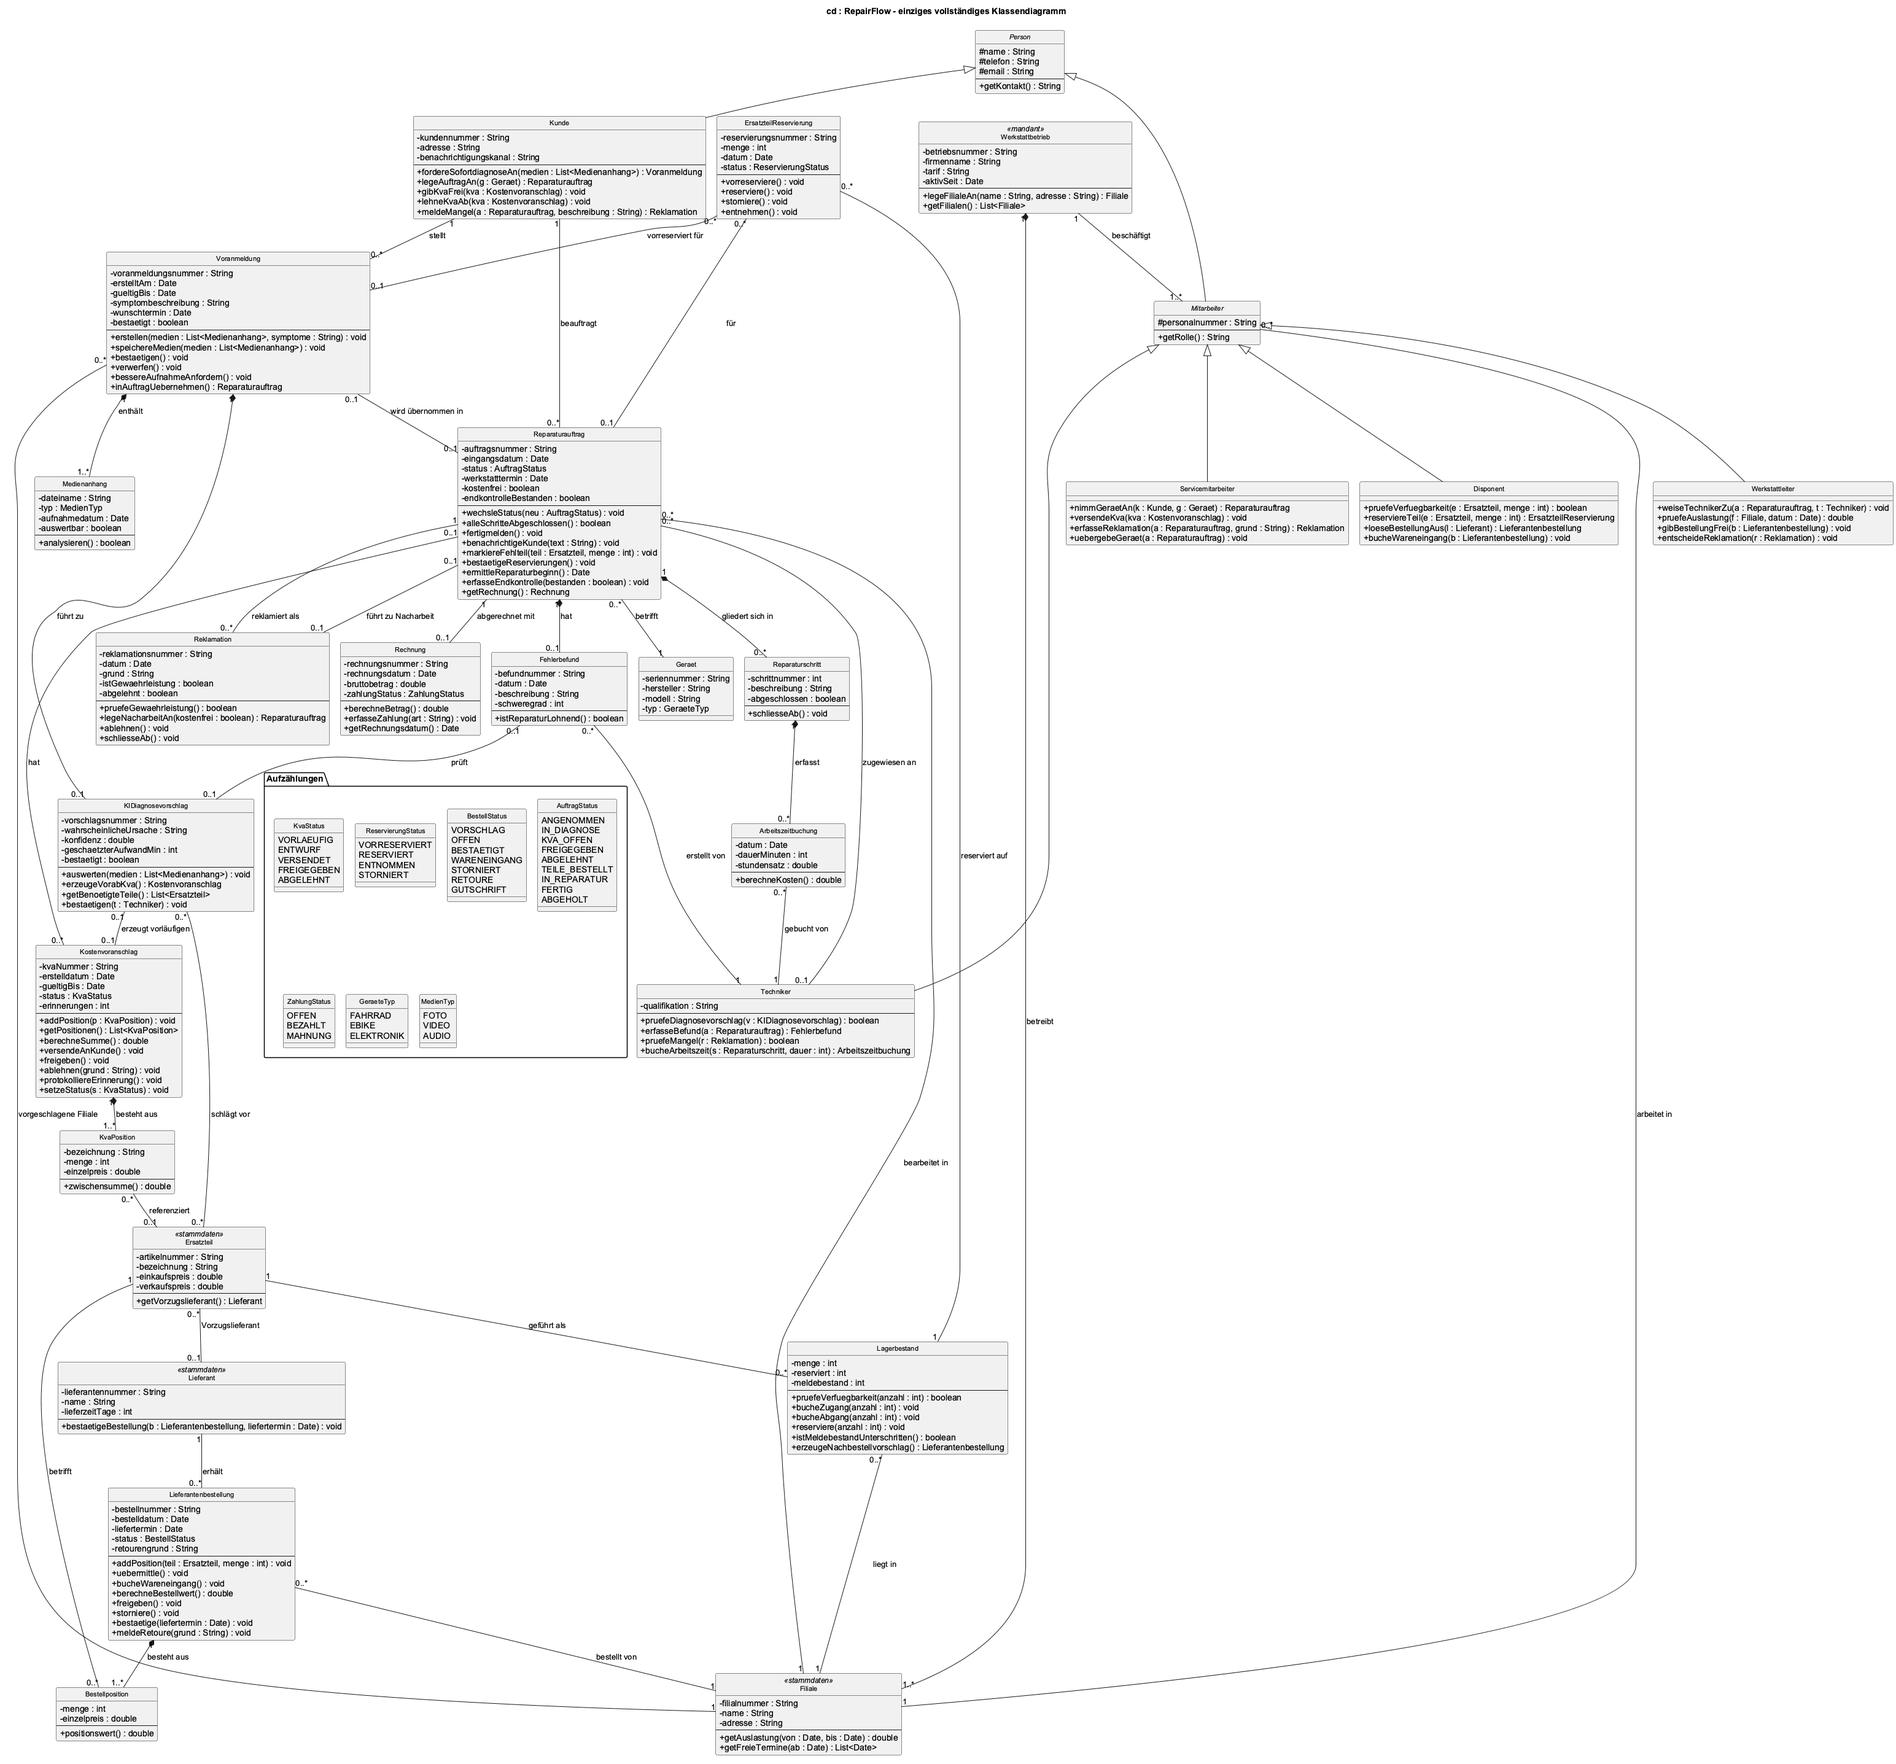
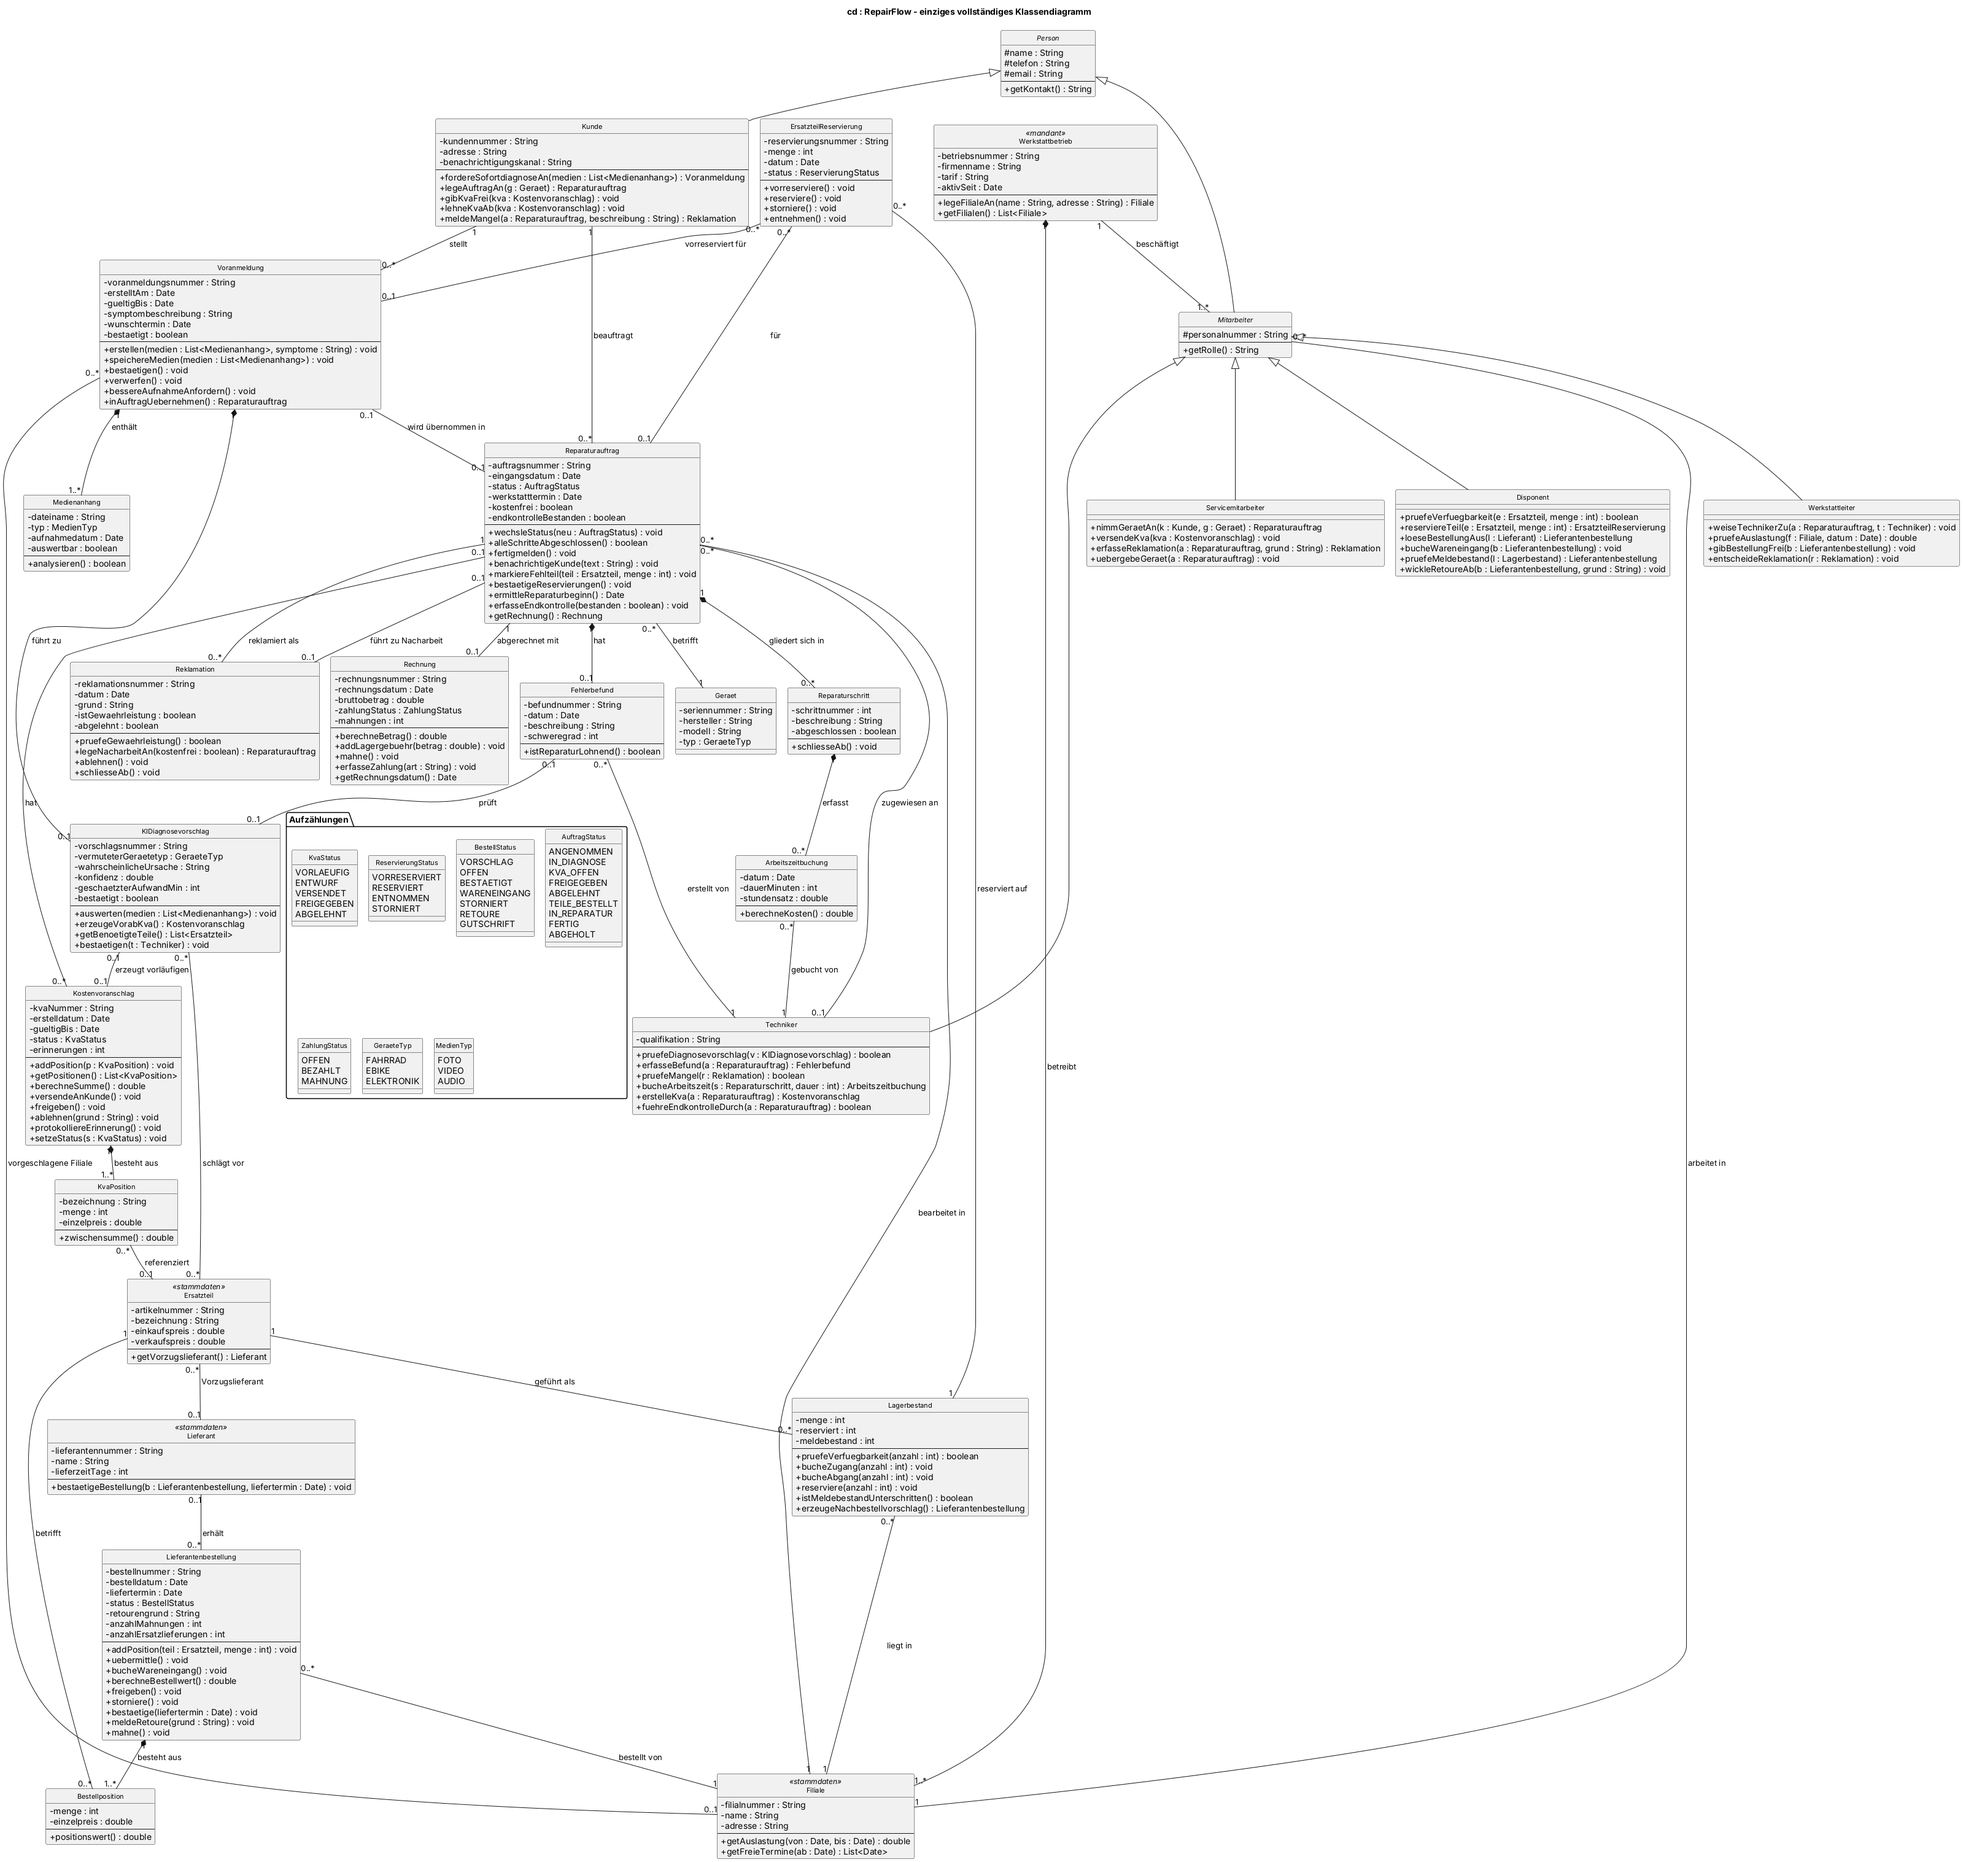
[T05 2026-10-16] fix: class diagram - operation per role, dunning, device type (E-29)
Vier Rollen aus Tabelle 7 hatten keine Operation in ihrer Mitarbeiterklasse
(Kalkulator, Endkontrolleur, Bestandsplaner, Retourenbearbeiter). Mahnungen
und Ersatzlieferungen aus P06 (E-27) sowie Mahnung und Lagergebuehr aus P08
im Modell abgebildet, Geraetetyp im KI-Vorschlag (Doku 2.5), zwei
Multiplizitaeten korrigiert. klassen.puml/.png, modell.xmi, Aenderungsbild,
E-29 im Entscheidungslog, TODO A.

Claude-Session: https://claude.ai/code/session_01H2bGsFaySUqsEjJ1PXuxUw

diff --git a/TODO.md b/TODO.md
@@ -14,6 +14,7 @@ Lehre-VPN starten, im Teamwork Client vor jeder Sitzung **Update**, nach jedem f
 
 - [ ] **Use-Case-Diagramm nach E-24 neu aufbauen.** Das importierte Modell hat noch die alten acht Akteure. Erst Commit, dann im Model Explorer nur das Paket „Anwendungsfallmodell“ löschen, `2_uml/modell-usecase.xmi` importieren (nicht die ganze `modell.xmi`, sonst Klassen doppelt), neues Diagramm „ud : RepairFlow“ anlegen und nach `usecase.png` anordnen: Rollen links, Use Cases in den vier Bereichen, KI-Diagnosedienst rechts neben UC01. Den Kunden dreimal aus dem Model Explorer ziehen (weitere Ansichten desselben Elements). UC08 bekommt keinen Akteur, der Lieferant ist kein Akteur (Black Box, E-24). Muss fertig sein, bevor Sequenzdiagramme angelegt werden, weil die als Unterdiagramme an den Use Cases hängen.
 - [ ] **Klassendiagramm „cd : RepairFlow“ fertigstellen.** Alle 27 Klassen und 7 Aufzählungen aus dem Paket „Klassenmodell“ auf die Fläche (Paket „Datentypen“ nicht), nach Zonen anordnen (Organisation links, Filiale oben Mitte, Sofortdiagnose links unten, Auftrag Mitte, Disposition rechts, Aufzählungen unten), Stereotypen «mandant» (Werkstattbetrieb) und «stammdaten» (Filiale, Lieferant, Ersatzteil) setzen, prüfen: Person und Mitarbeiter abstrakt (kursiv), 8 Kompositionen mit gefüllter Raute, Multiplizitäten an allen 36 Assoziationen. Keine Klasse umbenennen, keine Operation löschen.
+- [ ] **Änderungen E-29 im Klassendiagramm nachtragen** (von Hand in VP, kein Neuimport): Bild `2_uml/entwurf-plantuml/klassen-aenderungen-2026-10-16.png`, rot = neu. Techniker: `erstelleKva(a : Reparaturauftrag) : Kostenvoranschlag`, `fuehreEndkontrolleDurch(a : Reparaturauftrag) : boolean`. Disponent: `pruefeMeldebestand(l : Lagerbestand) : Lieferantenbestellung`, `wickleRetoureAb(b : Lieferantenbestellung, grund : String) : void`. Lieferantenbestellung: Attribute `anzahlMahnungen : int`, `anzahlErsatzlieferungen : int`, Operation `mahne() : void`. Rechnung: Attribut `mahnungen : int`, Operationen `addLagergebuehr(betrag : double) : void`, `mahne() : void`. KIDiagnosevorschlag: Attribut `vermuteterGeraetetyp : GeraeteTyp`. Multiplizität Voranmeldung–Filiale auf Filialseite `0..1`, Lieferant–Lieferantenbestellung auf Lieferantenseite `0..1`. Attribute/Operationen in VP: Klasse rechtsklicken → Add → Attribute/Operation, Typ im Dropdown wählen.
 - [ ] **Sechs Sequenzdiagramme als Unterdiagramme anlegen** (Use Case rechtsklicken → Sub Diagrams → New Diagram → Sequence Diagram): SD1 unter UC01, SD2 unter UC07, SD3 unter UC09, SD4 unter UC14, SD5 unter UC16, SD6 unter UC10. Vorlagen `sequenz-01…06.png`. Lebenslinien: erste Lebenslinie ist die Rolle des Use Case (z. B. Teiledisponent, Endkontrolleur), Objekte als „: Klassenname“ mit der Klasse aus dem Modell verknüpfen, Botschaften nur aus den Operationen des Klassendiagramms wählen. Fragmente alt/opt/loop/par/break/ref wie in den Vorlagen. SD4 und SD6 in der Fassung nach E-22 (Nacharbeitsschleife 0..2, Storno nach der zweiten Mahnung).
 - [ ] **Konsistenzprüfung** nach Fertigstellung aller SD: Botschaft = Operation, Lebenslinien mit Klasse verknüpft, SD hängt am richtigen Use Case, Rollennamen wie im Use-Case-Diagramm.
 - [ ] **Diagramme exportieren** (File → Export → Active Diagram as Image → PNG, hohe Auflösung): Use-Case-Diagramm → `2_uml/usecase-diagramm.png`, Klassendiagramm → `2_uml/klassendiagramm.png`, SD1 → `2_uml/sequenz-01-sofortdiagnose.png`, SD3 → `2_uml/sequenz-03-reservierung.png`. Diese vier Bilder braucht die Doku (Abb. 4–7).

diff --git a/5_team/03-entscheidungen.md b/5_team/03-entscheidungen.md
@@ -13,6 +13,18 @@ Kurzfassung der gültigen Entscheidungen. Der vollständige Verlauf mit Begründ
 - **E-26 bestätigen** (alle, Modeler-Prüfung Maximilian): Korrekturen P01–P05.
 - **E-28 bestätigen** (alle): Sequenzdiagramme auf den Kernablauf gekürzt.
 - **E-27 bestätigen** (alle, Modeler-Prüfung Maximilian): Überarbeitung P06; Folgeaufgaben P05 „Alle Teile verfügbar?“, Zustandsdiagramm „Teile bestellt → abgelehnt“, SD6.
+- **E-29 bestätigen** (alle, Nachtragen in VP David): Klassendiagramm – je Rolle eine Operation, Mahnungen an Bestellung und Rechnung, Gerätetyp im KI-Vorschlag, zwei Multiplizitäten.
+
+## E-29 Klassendiagramm: Operationen je Rolle, Mahnungen, Gerätetyp (16.10.2026)
+
+Vorschlag von Kilian (Prüfung des Klassendiagramms gegen Tabelle 7, BPMN und Doku mit KI-Unterstützung), Bestätigung durch die Gruppe offen. Änderungsbild: `2_uml/entwurf-plantuml/klassen-aenderungen-2026-10-16.png` (rot = neu).
+
+- **Warum:** Doku 5.4 sagt, die Unterklassen von Mitarbeiter „tragen die Operationen dieser Rollen“ (Tabelle 7). Vier der 15 Rollen hatten keine Operation in ihrer Klasse: Kalkulator (UC06) und Endkontrolleur (UC14) bei Techniker, Bestandsplaner (UC12) und Retourenbearbeiter (UC19) bei Disponent. Prozess 06 (E-27) zählt Mahnungen und Ersatzlieferungen, Prozess 08 mahnt Rechnungen und bucht Lagergebühren – das Klassenmodell kannte dafür weder Attribut noch Operation, obwohl der KVA für dieselbe Logik `erinnerungen`/`protokolliereErinnerung()` hat. Doku 2.5 und Folie 7 sagen, der KI-Dienst schlägt den Gerätetyp vor; KIDiagnosevorschlag hatte kein Feld dafür.
+- **Neu:** Techniker `erstelleKva(a)`, `fuehreEndkontrolleDurch(a)`; Disponent `pruefeMeldebestand(l)`, `wickleRetoureAb(b, grund)`; Lieferantenbestellung `anzahlMahnungen`, `anzahlErsatzlieferungen`, `mahne()`; Rechnung `mahnungen`, `addLagergebuehr(betrag)`, `mahne()`; KIDiagnosevorschlag `vermuteterGeraetetyp : GeraeteTyp`.
+- **Multiplizitäten:** Voranmeldung – Filiale „0..1“ statt „1“ (die Filiale wird erst nach der KI-Auswertung vorgeschlagen); Lieferant – Lieferantenbestellung „0..1“ statt „1“ (ein Nachbestellvorschlag hat noch keinen Lieferanten, Status VORSCHLAG).
+- **Nicht geändert:** 27 Klassen, 7 Aufzählungen, 36 Assoziationen, 8 Kompositionen – die Zahlen in Doku 5.4 und auf Folie 8 bleiben. Keine Umbenennung, keine Löschung, Sequenzdiagramme unverändert gültig.
+- **Dateien:** `klassen.puml/.png`, `modell.xmi` (nur als Quelle; kein Neuimport in VP), `klassen-aenderungen-2026-10-16.puml/.png`.
+- **Folgt daraus:** David trägt die 13 Einträge und die zwei Multiplizitäten im VP-Klassendiagramm von Hand nach (TODO A); kein Neuimport, sonst gibt es Dubletten.
 
 ## E-28 Sequenzdiagramme auf den Kernablauf gekürzt (15.10.2026)
 
@@ -125,3 +137,4 @@ Beschlossen von der ganzen Gruppe am Gruppentermin; Eintrag mit KI-Unterstützun
 | E-26 | Korrekturen P01–P05 (KI-Vorschlag optional, kein Befund, KVA-Status, Vorreservierungen in P05) – Bestätigung offen |
 | E-27 | Überarbeitung P06 (Storno an Lieferanten, Nachfrist, nicht beschaffbar, begrenzte Retoure) – Bestätigung offen |
 | E-28 | Sequenzdiagramme auf den Kernablauf gekürzt (7 bis 16 Botschaften, Ausnahmen als ref) – Bestätigung offen |
+| E-29 | Klassendiagramm: Operation je Rolle, Mahnungen an Bestellung und Rechnung, Gerätetyp im KI-Vorschlag, zwei Multiplizitäten – Bestätigung offen |
